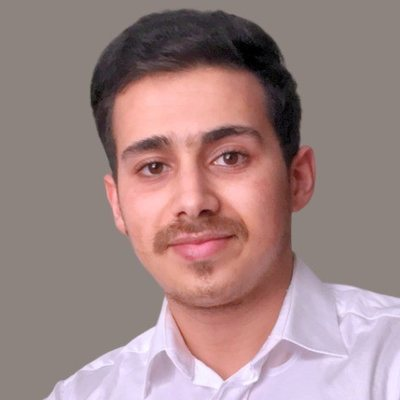
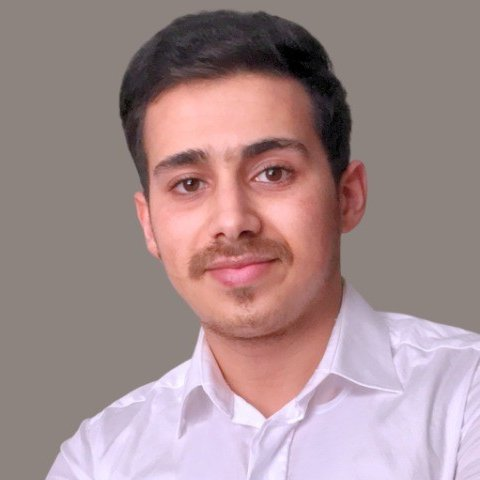
Enlarge profile photo

diff --git a/index.html b/index.html
@@ -57,10 +57,10 @@
 
   .hero { padding: 88px 0 96px; }
   .hero .wrap { display: grid; grid-template-columns: 1.05fr .95fr; gap: 56px; align-items: center; }
-  .hello { display: flex; align-items: center; gap: 16px; font-size: 18px; color: var(--ink-2); margin: 0 0 22px; font-weight: 500; }
-  .hello img { width: 76px; height: 76px; border-radius: 50%; flex: none; border: 3px solid var(--paper); box-shadow: 0 0 0 1px var(--rule), 0 10px 24px -12px rgba(19,33,58,.5); }
+  .hello { display: flex; align-items: center; gap: 22px; font-size: 18px; color: var(--ink-2); margin: 0 0 22px; font-weight: 500; }
+  .hello img { width: 128px; height: 128px; border-radius: 50%; flex: none; border: 3px solid var(--paper); box-shadow: 0 0 0 1px var(--rule), 0 10px 24px -12px rgba(19,33,58,.5); }
   .me { display: flex; align-items: center; gap: 18px; margin-bottom: 28px; }
-  .me img { width: 64px; height: 64px; border-radius: 50%; border: 2px solid #3A4E78; }
+  .me img { width: 84px; height: 84px; border-radius: 50%; border: 2px solid #3A4E78; }
   .me span { color: var(--night-text); font-size: 16px; line-height: 1.4; }
   .me b { display: block; color: #fff; font-weight: 600; }
   .hero h1 {
@@ -193,6 +193,8 @@
     .wrap { padding: 0 16px; }
     .bar nav { display: none; }
     .hero .pitch { font-size: 18px; }
+    .hello { flex-direction: column; align-items: flex-start; gap: 16px; }
+    .hello img { width: 112px; height: 112px; }
     .run { font-size: 12.5px; }
     .run li { grid-template-columns: 18px 72px 1fr; }
     .run .t { display: none; }
@@ -231,7 +233,7 @@
   <section class="hero">
     <div class="wrap">
       <div>
-        <p class="hello"><img src="oussama.jpg" width="400" height="400" alt="Portrait of Oussama Ben Abid"><span lang="en">Hi, I'm Oussama, a software developer in Bremen.</span><span lang="de">Hallo, ich bin Oussama, Softwareentwickler in Bremen.</span></p>
+        <p class="hello"><img src="oussama.jpg" width="480" height="480" alt="Portrait of Oussama Ben Abid"><span lang="en">Hi, I'm Oussama, a software developer in Bremen.</span><span lang="de">Hallo, ich bin Oussama, Softwareentwickler in Bremen.</span></p>
         <h1><span lang="en">I build software and ship it.</span><span lang="de">Ich baue Software und bringe sie live.</span></h1>
         <p class="pitch">
           <span lang="en">Computer Science Master's student at <strong>Hochschule Bremen</strong>. I take web applications from the database to automated deployment with <strong>Java, Spring Boot, Python, React and Angular</strong>, and add AI where it actually helps.</span>
@@ -449,7 +451,7 @@
   <div class="wrap">
     <h2><span lang="en">Looking for a working student?</span><span lang="de">Sie suchen einen Werkstudenten?</span></h2>
     <p><span lang="en">I'm available for up to 20 hours a week, in Bremen or remote. I'd be glad to hear from you.</span><span lang="de">Ich bin bis zu 20 Stunden pro Woche verfügbar, in Bremen oder remote. Ich freue mich auf Ihre Nachricht.</span></p>
-    <div class="me"><img src="oussama.jpg" width="400" height="400" alt="" loading="lazy"><span><b>Oussama Ben Abid</b><span lang="en">Software developer, Bremen</span><span lang="de">Softwareentwickler, Bremen</span></span></div>
+    <div class="me"><img src="oussama.jpg" width="480" height="480" alt="" loading="lazy"><span><b>Oussama Ben Abid</b><span lang="en">Software developer, Bremen</span><span lang="de">Softwareentwickler, Bremen</span></span></div>
     <a class="mail" href="mailto:oben-abid@stud.hs-bremen.de">oben-abid@stud.hs-bremen.de</a>
     <div class="cta">
       <a class="btn" href="https://www.linkedin.com/in/oussama-ben-abid/">LinkedIn</a>
